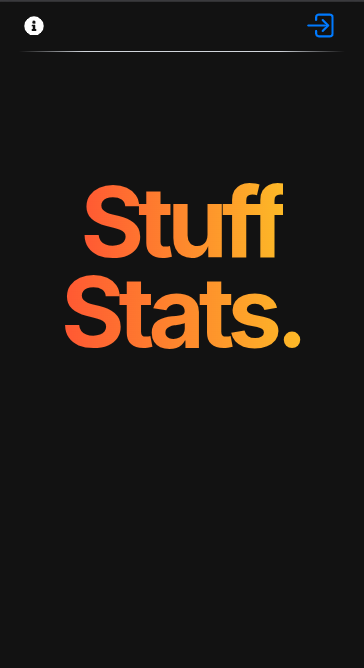
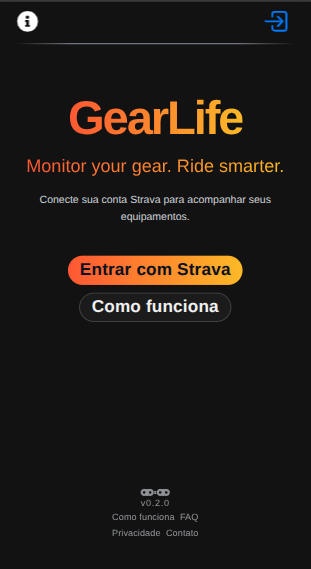
(fix) update HowItWorksContent with additional Strava login instructions and pictures

diff --git a/src/components/HowItWorksContent.tsx b/src/components/HowItWorksContent.tsx
@@ -53,7 +53,8 @@ export default function HowItWorksContent({
             aria-hidden='true'
             focusable='false'
           />{' '}
-          localizado no canto superior direito da tela.
+          localizado no canto superior direito da tela ou no botão "Entrar com
+          Strava".
         </li>
         <li>
           Você será redirecionado para a página de autenticação do Strava.